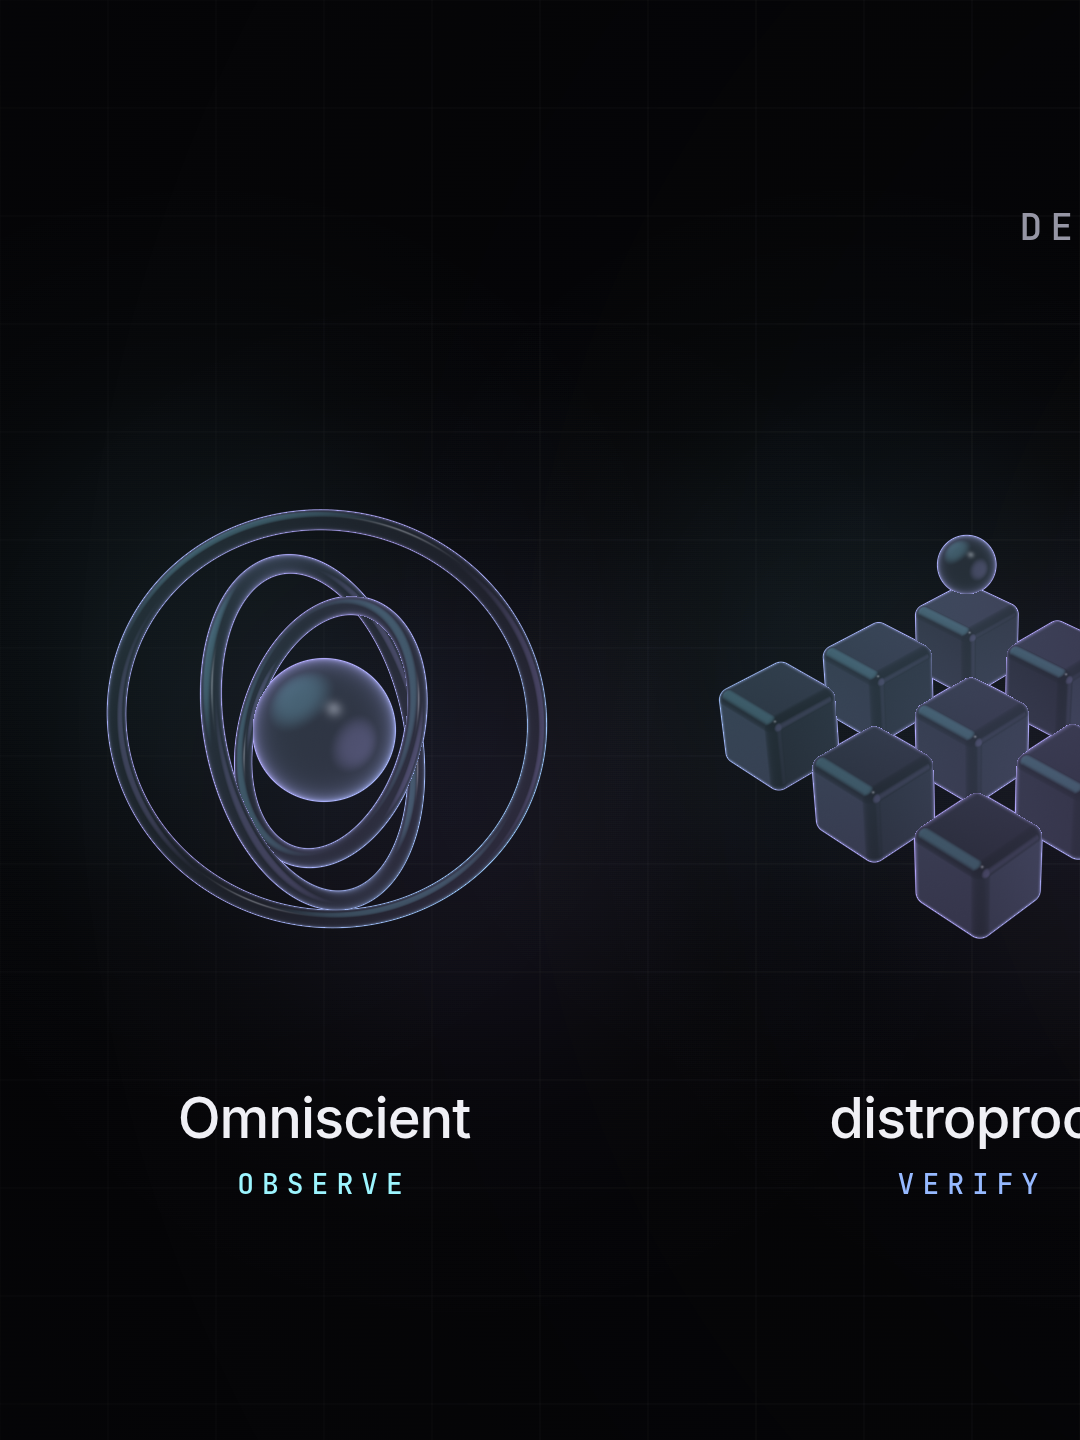
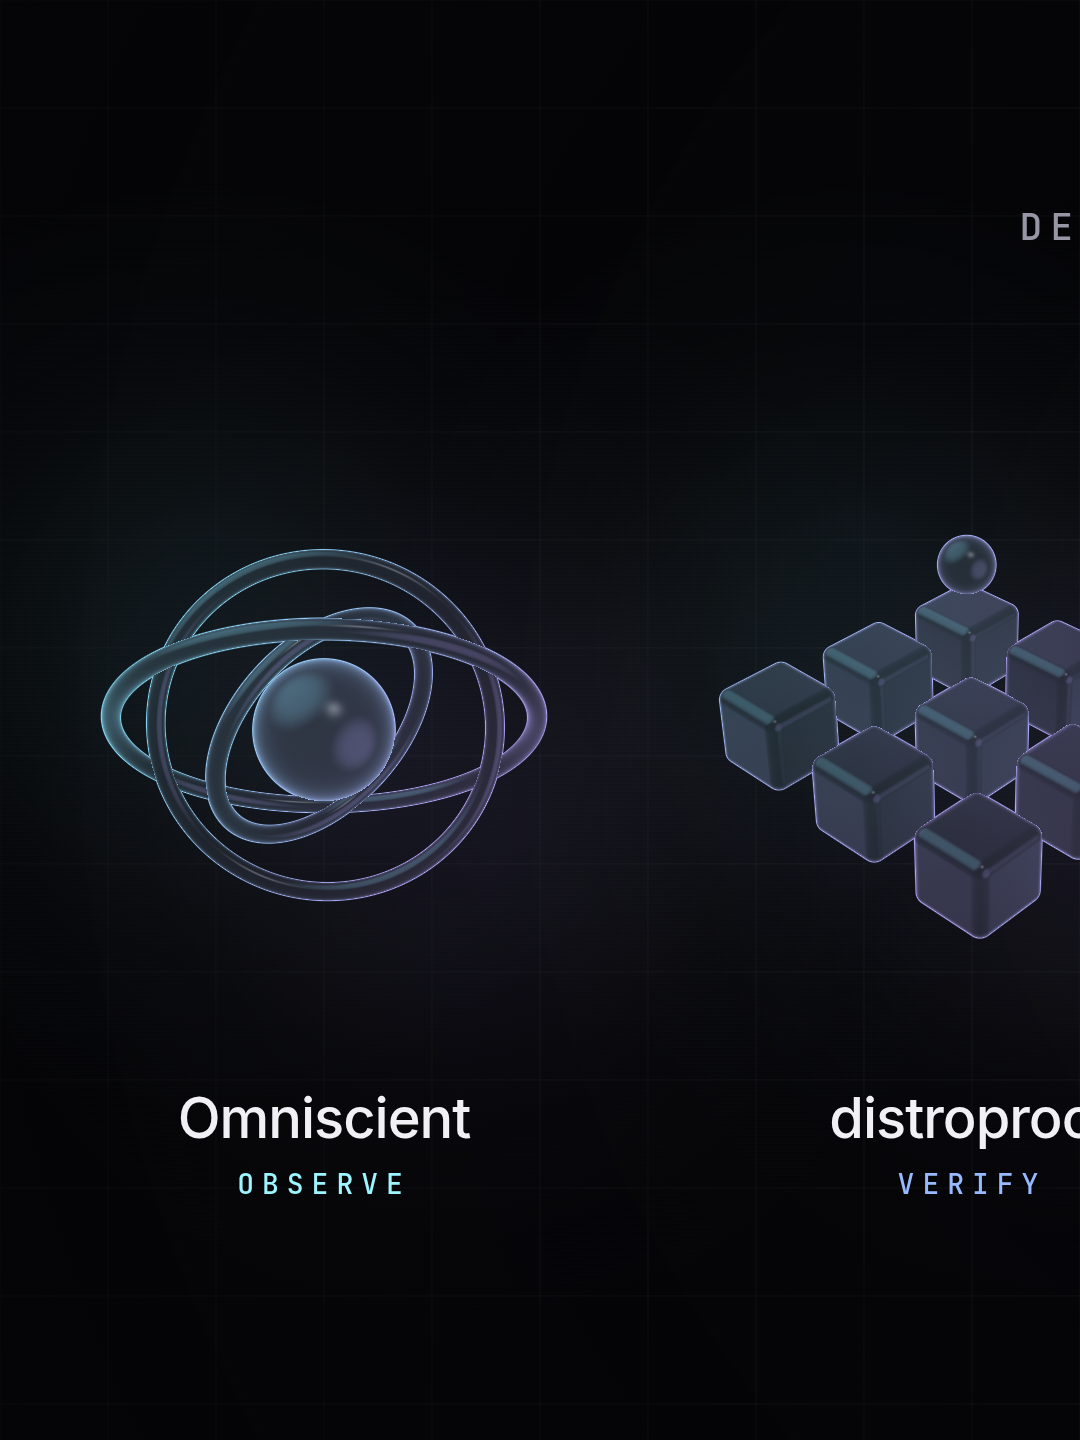
Instagram: Omniscient in the LinkedIn visual's pose
That visual was rendered with reduced motion, so its rings sit where the
animation starts: time 0.

Changed region(s): [[0.0917, 0.3438, 0.5194, 0.6562]]

diff --git a/social/instagram.js b/social/instagram.js
@@ -163,7 +163,7 @@ function drawGlass(list) {
     gl.vertexAttribPointer(0, 3, gl.FLOAT, false, 0, 0)
     const u = (n) => gl.getUniformLocation(prog, n)
     // a pose: a moment of each shape's own slow motion, tilted as on the site
-    const t = { omn: 7.2, mark: 0, distroproof: 5.3, xpac: 4.1, vmanyware: 3.6 }[look[s.id].shape]
+    const t = { omn: 0, mark: 0, distroproof: 5.3, xpac: 4.1, vmanyware: 3.6 }[look[s.id].shape]
     const [rx, ry] = shape.rot
     const b = ry + t * shape.spin
     const cx = Math.cos(rx), sx = Math.sin(rx), cy = Math.cos(b), sy = Math.sin(b)
